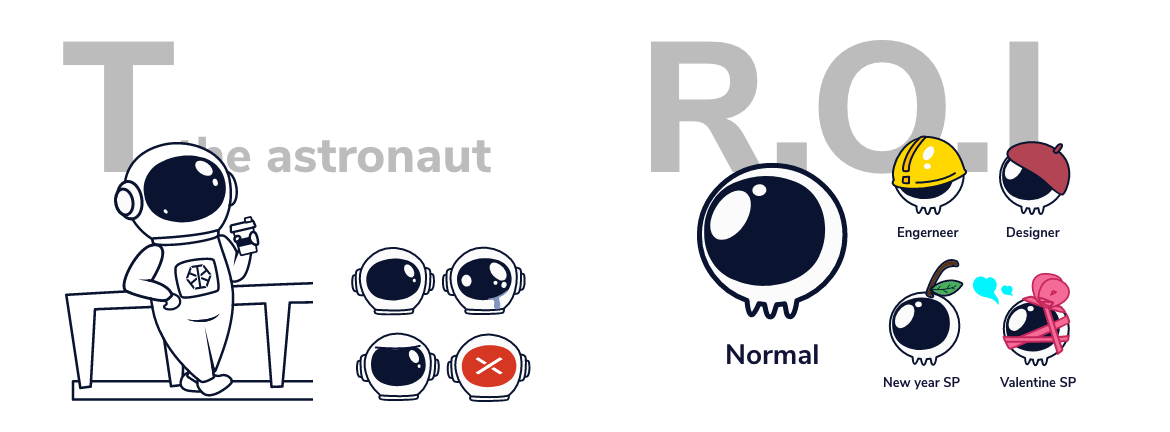
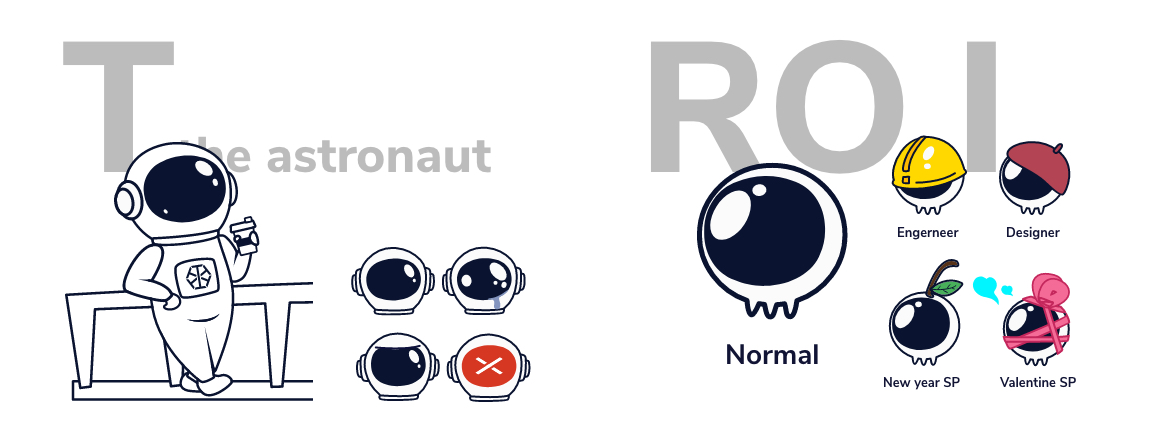
Add files via upload

Changed region(s): [[0.6462, 0.0903, 0.8923, 0.4213]]

diff --git a/project1.html b/project1.html
@@ -29,6 +29,9 @@
       <div class="top_words">
         Triple-I
       </div>
+      <div class="top_link">
+        <a href="https://3i-life.com.tw/" target="_blank">LINK</a>
+      </div>
     </div>
     <div class="contents">
       <div class="project_introduce">
@@ -84,8 +87,8 @@
         </div>
         <div class="p_block">
           <p class="p_content">吉祥物 -- 小T，進行客服相關的工作，屬於領航員的概念，製作過程中多半以客製畫的方式進行各種動作設計。</p>
-          <p class="p_content">吉祥物 -- R.O.I，生長在外太空的三隻腳小生物，每一隻有獨特的編號(例如:R.O.I-234)，現在在 Triple-I 進行各種相關工作，看他們的帽子跟裝飾就會知道他們是屬於哪個部門的R.O.I。</p>
-          <p class="p_content">小T 的存在在一開始就有了，只是將他簡化樣式以利後續開發方便。R.O.I 則是後來為了各種服務與視覺需求而製作的小型吉祥物。</p>
+          <p class="p_content">吉祥物 -- RO.I，生長在外太空的三隻腳小生物，每一隻有獨特的編號(例如:RO.I-234)，現在在 Triple-I 進行各種相關工作，看他們的帽子跟裝飾就會知道他們是屬於哪個部門的RO.I。</p>
+          <p class="p_content">小T 的存在在一開始就有了，只是將他簡化樣式以利後續開發方便。RO.I 則是後來為了各種服務與視覺需求而製作的小型吉祥物。</p>
           <div class="p_img">
             <img src="img/project1_4.jpg" alt="">
           </div>

diff --git a/css/style.css b/css/style.css
@@ -303,6 +303,44 @@ hr {
   font-family: 'BowlbyOneSC';
 }
 
+.top_link {
+  position: absolute;
+  right: 16px;
+  bottom: 8vh;
+  width: 100px;
+  text-align: center;
+  transform: rotate(-10deg);
+}
+
+.top_link a::after {
+  content: "";
+  background: url(../img/link_circle-42.svg) center no-repeat;
+  position: absolute;
+  bottom: 8px;
+  right: 0%;
+  transform: translateY(50%);
+  width: 100px;
+  height: 100px;
+  animation: 6s linkCircle linear infinite;
+  transition: .2s ease-out;
+}
+
+.top_link a:hover::after{
+  background: url(../img/link_circle-43.svg) center no-repeat;
+}
+
+@keyframes linkCircle {
+
+  0% {
+    transform:translateY(50%) rotate(0deg);
+  }
+
+  100% {
+    transform:translateY(50%) rotate(360deg);
+  }
+
+}
+
 .project_introduce {
   position: relative;
   display: flex;
@@ -349,12 +387,12 @@ hr {
   padding-top: 20px;
 }
 
-.project_part .p_title h4{
+.project_part .p_title h4 {
   color: #750606;
   margin-top: 60px;
 }
 
-.project_part .p_img{
+.project_part .p_img {
   margin-bottom: 20px;
 }
 
@@ -362,11 +400,11 @@ hr {
   width: 100%;
 }
 
-.project_part .p_paregragh{
+.project_part .p_paregragh {
   margin-top: 80px;
 }
 
-.project_part .p_paregragh_img{
+.project_part .p_paregragh_img {
   margin-top: 60px;
 }
 
